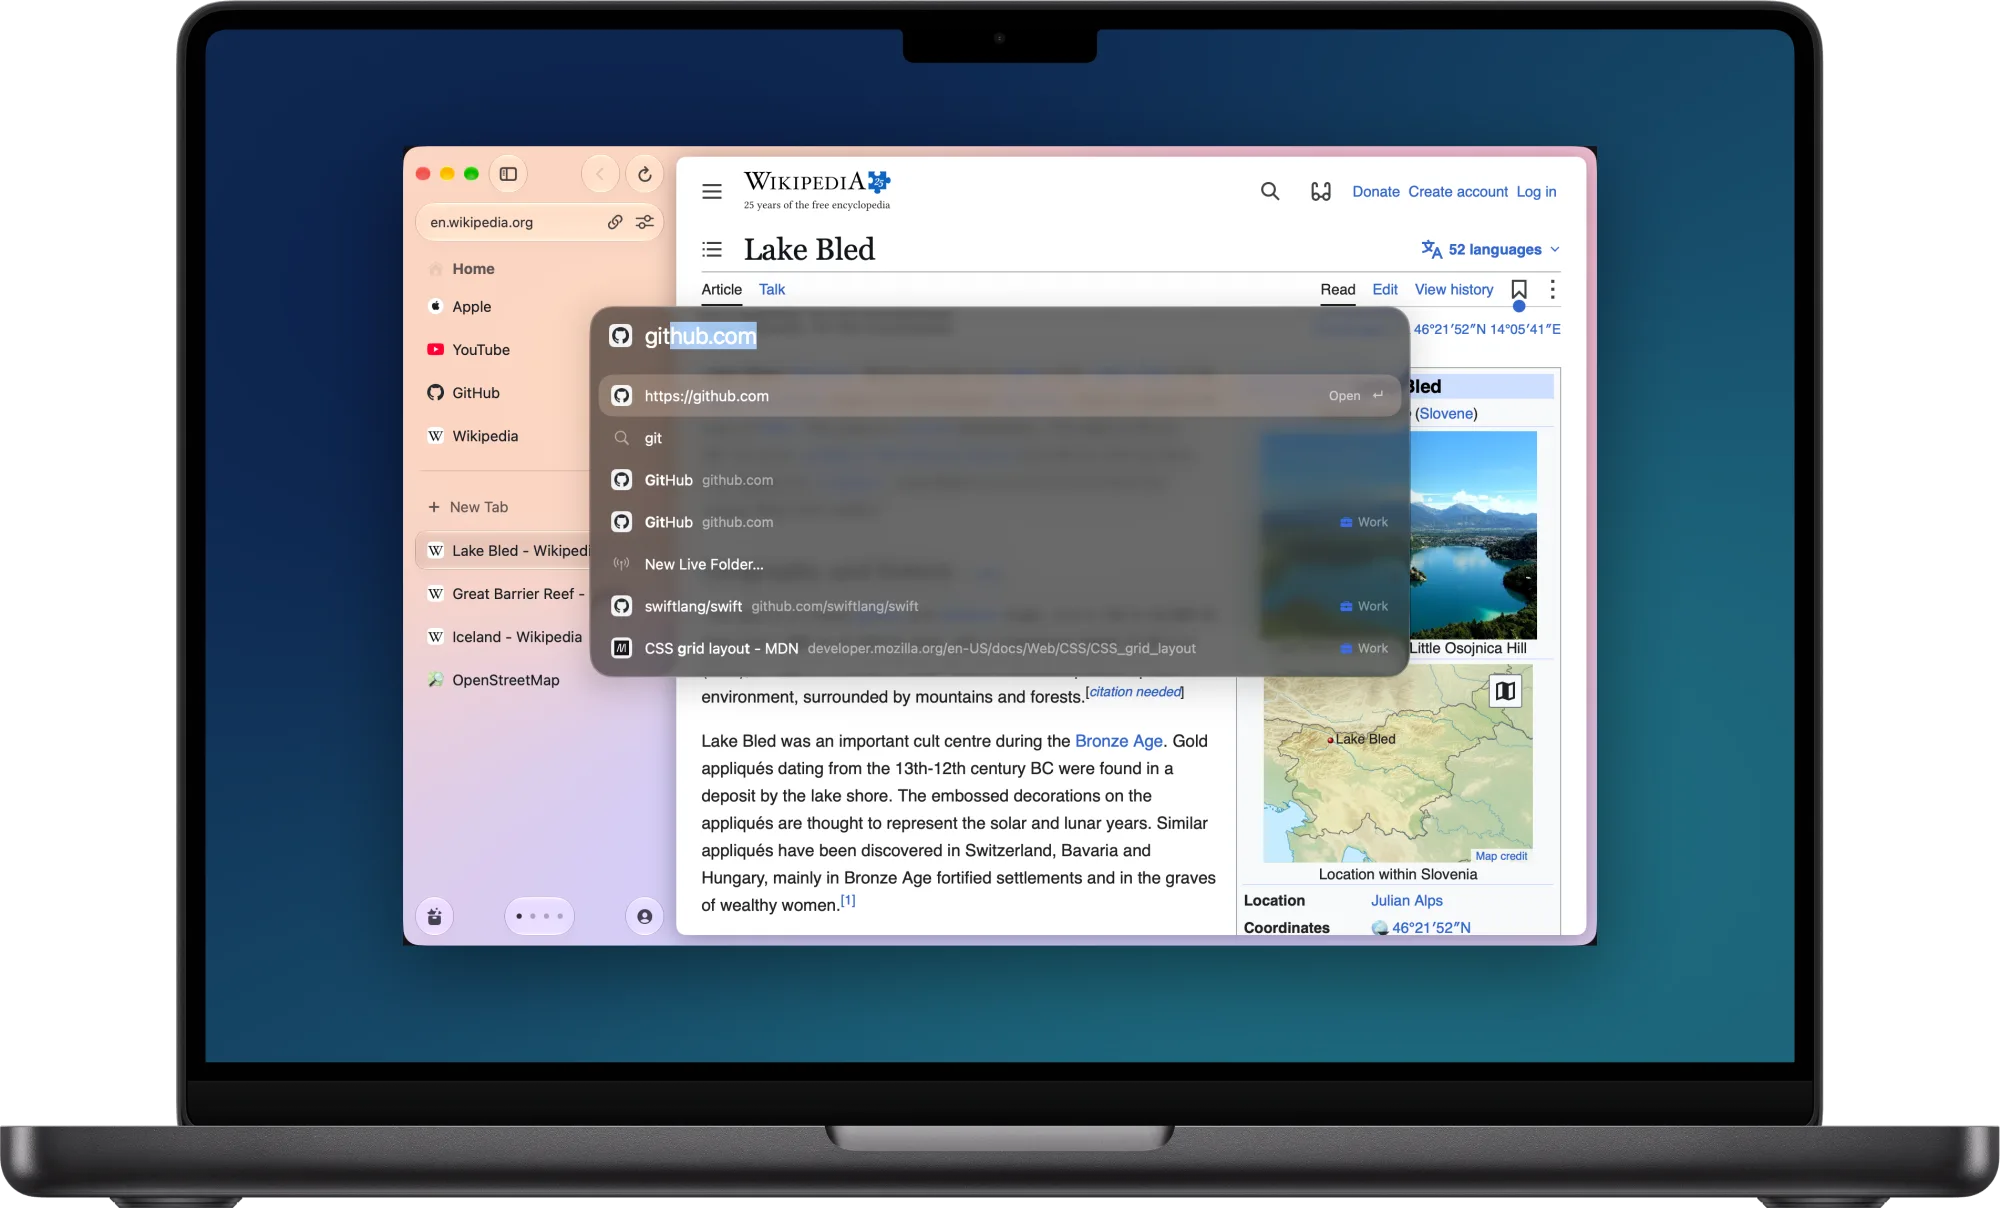
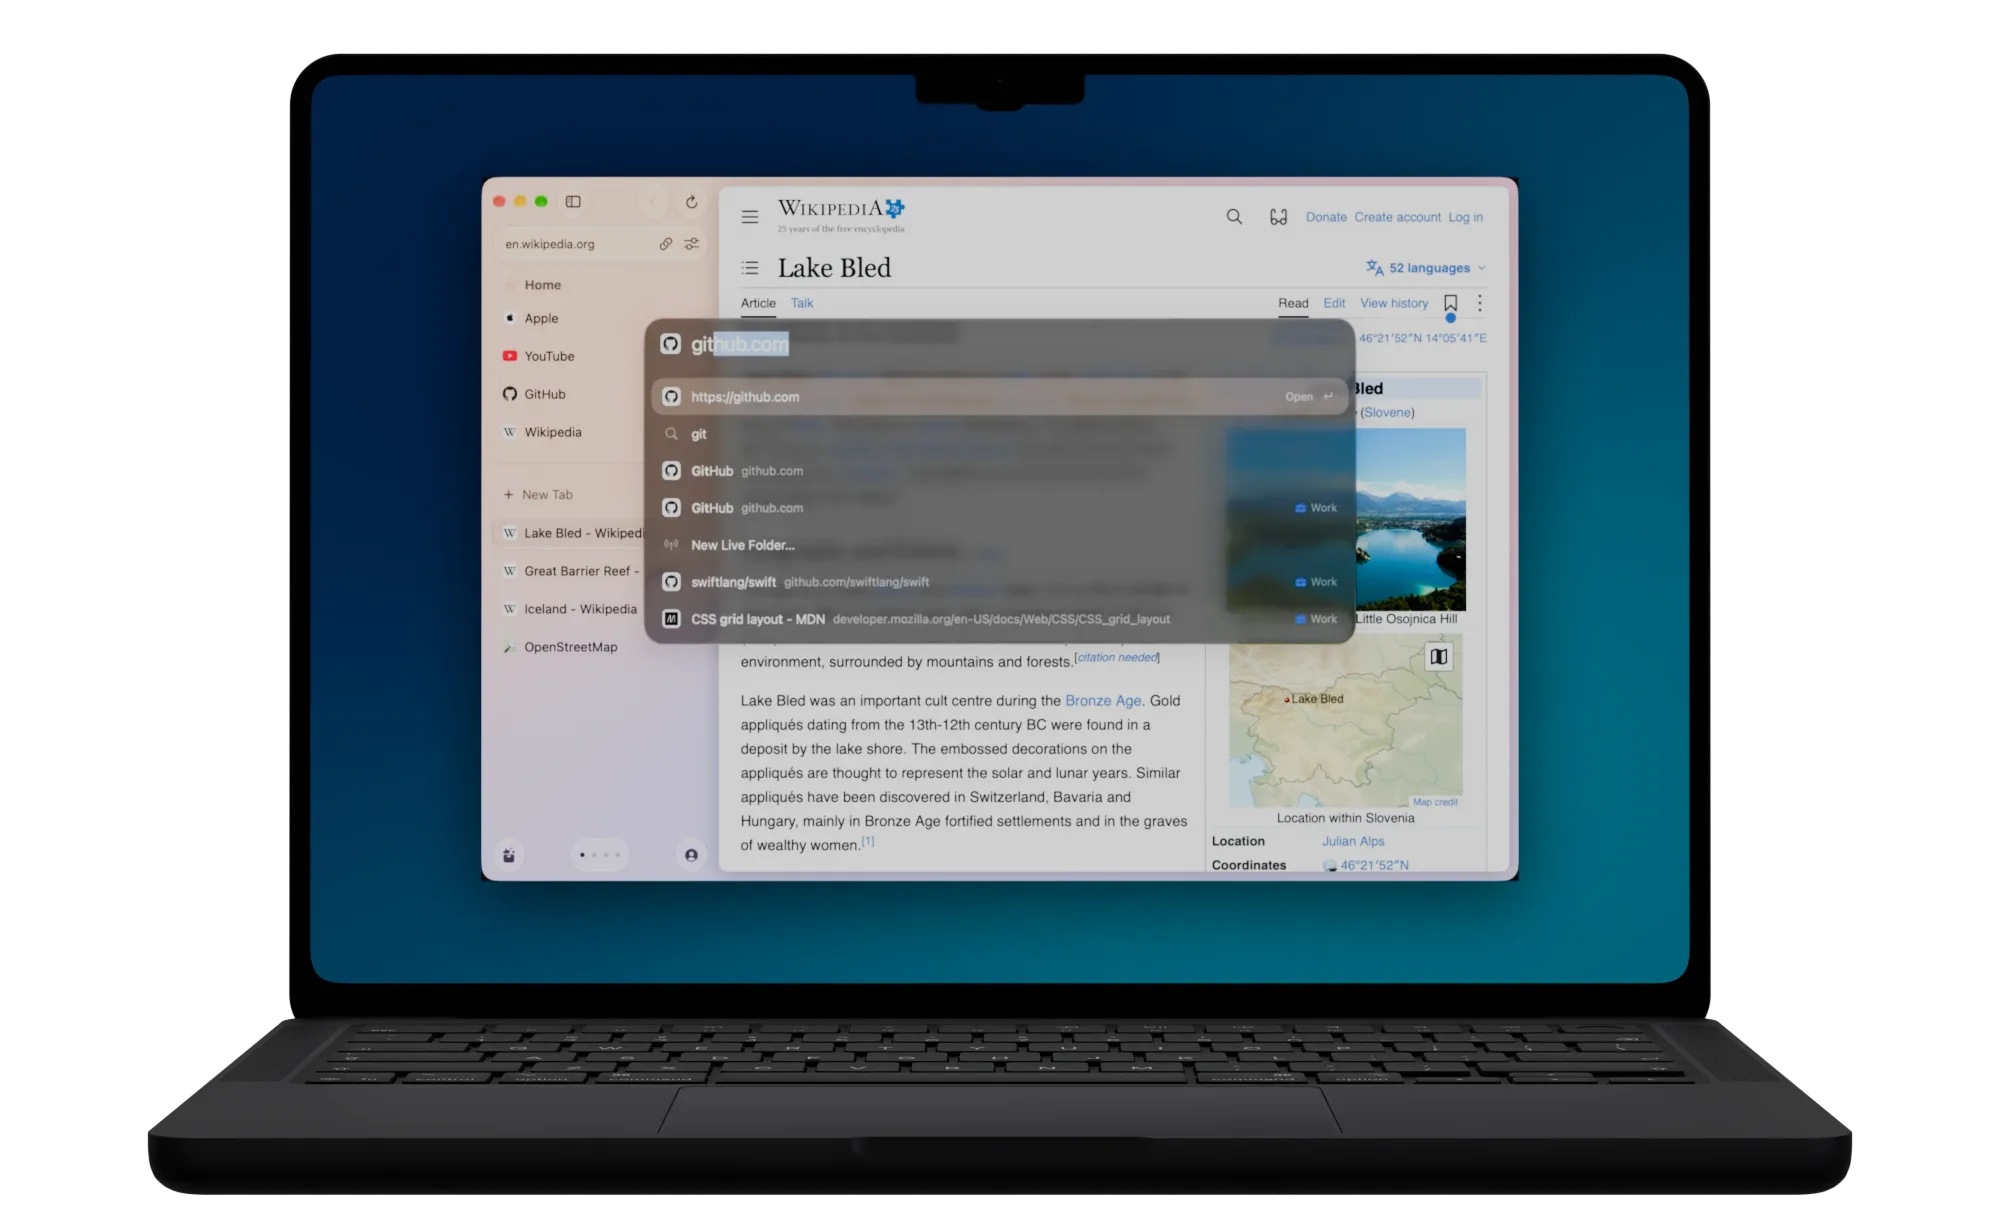
feat(website): laptop shots rendered on our own laptop model
tools/frame.mjs now renders each capture on the tools/3d laptop
(render.py's new front shot, transparent backdrop) instead of framing
it in Apple's MacBook Pro images with frames-cli. All nine shots in
src/img/framed re-rendered with their existing screens on the same
2000x1208 canvas, 1254 KB down to 758 KB in total. Apple's frame
notice leaves THIRD-PARTY-NOTICES.

diff --git a/website/tools/3d/render.py b/website/tools/3d/render.py
@@ -4,7 +4,7 @@
 # blender -b --factory-startup -P tools/3d/render.py -- --glb laptop.glb --screen mock/screen-spaces.jpg --out DIR
 #   [--shots side,closed,glow,three-quarter,seq,seq@N,tour,tour@N] [--samples 128] [--height 1080] [--frames 120]
 #   [--map roles.json] [--lid REGEX] [--rest-angle DEG] [--turn DEG] [--flip-uv 0|1] [--finish black|silver] [--hinge Y Z]
-#   [--backdrop black|white]
+#   [--backdrop black|white|none]
 # Any laptop glTF works: it is turned by --turn, scaled to 31.26 cm wide and set on the floor, and its
 # materials are given roles by name (printed; --map {"regex": "role"|"keep"} overrides). Objects matching
 # --lid swing about --hinge, else a hinge found at their lowest back edge; --rest-angle is the lid's angle in the file.
@@ -32,7 +32,7 @@ a.add_argument("--rest-angle", type=float, default=0)
 a.add_argument("--turn", type=float, default=0)
 a.add_argument("--hinge", type=float, nargs=2, metavar=("Y", "Z"), help="the lid's axis in the file's Z-up units")
 a.add_argument("--finish", choices=["black", "silver"], help="every shot in this finish")
-a.add_argument("--backdrop", choices=["black", "white"], default="black")
+a.add_argument("--backdrop", choices=["black", "white", "none"], default="black")
 a.add_argument("--flip-uv", type=int, default=1, help="1 for mock/'s export, whose V runs the other way")
 args = a.parse_args(sys.argv[sys.argv.index("--") + 1:])
 
@@ -47,6 +47,7 @@ SHOTS = {
     "three-quarter": ("silver", 720 / 540, dict(lid=110, glow=0.7, az=-0.85, el=0.3, dist=100, y=5, z=-2, fov=18)),
     "ports": ("black", 2, dict(lid=0, glow=0, az=-1.36, el=0.02, dist=92, y=0.75, z=-7.6, fov=2.2)),
     "deck": ("black", 2, dict(lid=110, glow=0.5, az=-0.3, el=0.75, dist=95, y=1.2, z=-1, fov=11)),
+    "front": ("black", 2000 / 1208, dict(lid=92, glow=0.5, az=0, el=0.03, dist=124, y=10.4, z=-9, fov=12)),
 }
 
 lerp = lambda a, b, t: a + (b - a) * t
@@ -155,6 +156,9 @@ if args.backdrop == "white":
     wt.links.new(ao.outputs["Color"], em.inputs["Color"])
     wt.links.new(em.outputs[0], wout.inputs[0])
     sweep.data.materials[0] = wm
+if args.backdrop == "none":
+    scene.render.film_transparent = True
+    sweep.hide_render = True
 
 
 def panel(name, size, at, aim, radiance, fade=0.0, soft=0.0):
@@ -216,7 +220,7 @@ panel("top", (70, 30), (0, 10, 75), (0, 0, 0), 1.2)
 panel("back", (100, 40), (0, 70, 40), (0, 0, 2), 1.5, fade=1.0)
 panel("key", (14, 70), (-70, -45, 35), (0, 0, 0), 1.0, soft=0.3)
 panel("rim", (14, 70), (75, 30, 30), (0, 0, 0), 0.8, soft=0.3)
-if args.backdrop == "black":  # on white it would shade the floor, which lights the laptop's front itself
+if args.backdrop != "white":  # on white it would shade the floor, which lights the laptop's front itself
     panel("front", (44, 16), (0, -20, 0.3), (0, -20, 10), 0.5, soft=0.15)
 
 before = set(bpy.data.objects)

diff --git a/THIRD-PARTY-NOTICES.md b/THIRD-PARTY-NOTICES.md
@@ -279,10 +279,8 @@ The website shows real third-party pages in screenshots of Artemis. These files 
 
 `website/src/img/framed/*.webp`, `website/src/img/know-*.webp` and `website/src/img/import-crop.webp` are screenshots of Artemis captured November 2026. The pages in them are github.com, developer.mozilla.org, webkit.org, swift.org, science.nasa.gov, youtube.com and English Wikipedia ([Iceland](https://en.wikipedia.org/wiki/Iceland), [Aurora](https://en.wikipedia.org/wiki/Aurora), [Kyoto](https://en.wikipedia.org/wiki/Kyoto)). Site names, designs and icons belong to their owners. Wikipedia text is by Wikipedia contributors under [CC BY-SA 4.0](https://creativecommons.org/licenses/by-sa/4.0/), and Wikipedia is a trademark of the Wikimedia Foundation. The YouTube thumbnail is [Big Buck Bunny](https://peach.blender.org) by the Blender Foundation under [CC BY 3.0](https://creativecommons.org/licenses/by/3.0/). NASA imagery is not subject to copyright in the United States.
 
-`website/mock/env/studio_small_09_1k.hdr` is [Studio Small 09](https://polyhaven.com/a/studio_small_09) by Sergej Majboroda, from Poly Haven under [CC0](https://creativecommons.org/publicdomain/zero/1.0/). It lights the 3D laptop prototype.
+`website/mock/env/studio_small_09_1k.hdr` is [Studio Small 09](https://polyhaven.com/a/studio_small_09) by Sergej Majboroda, from Poly Haven under [CC0](https://creativecommons.org/publicdomain/zero/1.0/). It lights the 3D laptop renders.
 
 The keyboard legends on the 3D laptop are set in [Inter](https://github.com/rsms/inter) 4.1 by Rasmus Andersson, under the [SIL Open Font License 1.1](https://openfontlicense.org). The font file isn't in this repository: `website/tools/3d/model.py` reads it from `~/.cache/artemis/fonts/Inter-Regular.ttf`.
-
-The MacBook Pro frames around `website/src/img/framed/*.webp` are Apple's product images from its design resources, composited with [frames-cli](https://github.com/viticci/frames-cli). They are Apple's, used under Apple's terms, and not covered by the GPL. MacBook Pro is a trademark of Apple Inc.
 
 `website/src/img/og-home.png` is a screenshot of the English Wikipedia article [Orion (constellation)](https://en.wikipedia.org/wiki/Orion_(constellation)), captured November 2026. Article text is by Wikipedia contributors under [CC BY-SA 4.0](https://creativecommons.org/licenses/by-sa/4.0/). It contains [Orion_IAU.svg](https://commons.wikimedia.org/wiki/File:Orion_IAU.svg) by the IAU and Sky & Telescope magazine (Roger Sinnott, Rick Fienberg), [CC BY 3.0](https://creativecommons.org/licenses/by/3.0/). Being built on CC BY-SA material, it is shared under CC BY-SA 4.0 with these credits.

diff --git a/website/README.md b/website/README.md
@@ -21,13 +21,13 @@ node build.mjs --check        # build it, then run the checks
 
 ## Mac screenshots
 
-The Mac shots in `src/img/framed` are Artemis window captures framed in a MacBook Pro with [frames-cli](https://github.com/viticci/frames-cli). Clone it to `~/.cache/artemis/frames-cli` (or set `FRAMES_CLI`), then:
+The Mac shots in `src/img/framed` are Artemis window captures rendered on our own laptop model. Build the model once with Blender (`blender -b --factory-startup -P tools/3d/model.py -- ~/.cache/artemis/3d-render/mbp14.glb`), then:
 
 ```sh
 node tools/frame.mjs <capture.png> <name> [--backdrop assets/spaces/space-tide-880x592.png] [--width 2000]
 ```
 
-It writes `src/img/framed/<name>.webp`. The frames are Apple's images and aren't covered by the GPL.
+It writes `src/img/framed/<name>.webp`.
 
 ## Contributing
 
